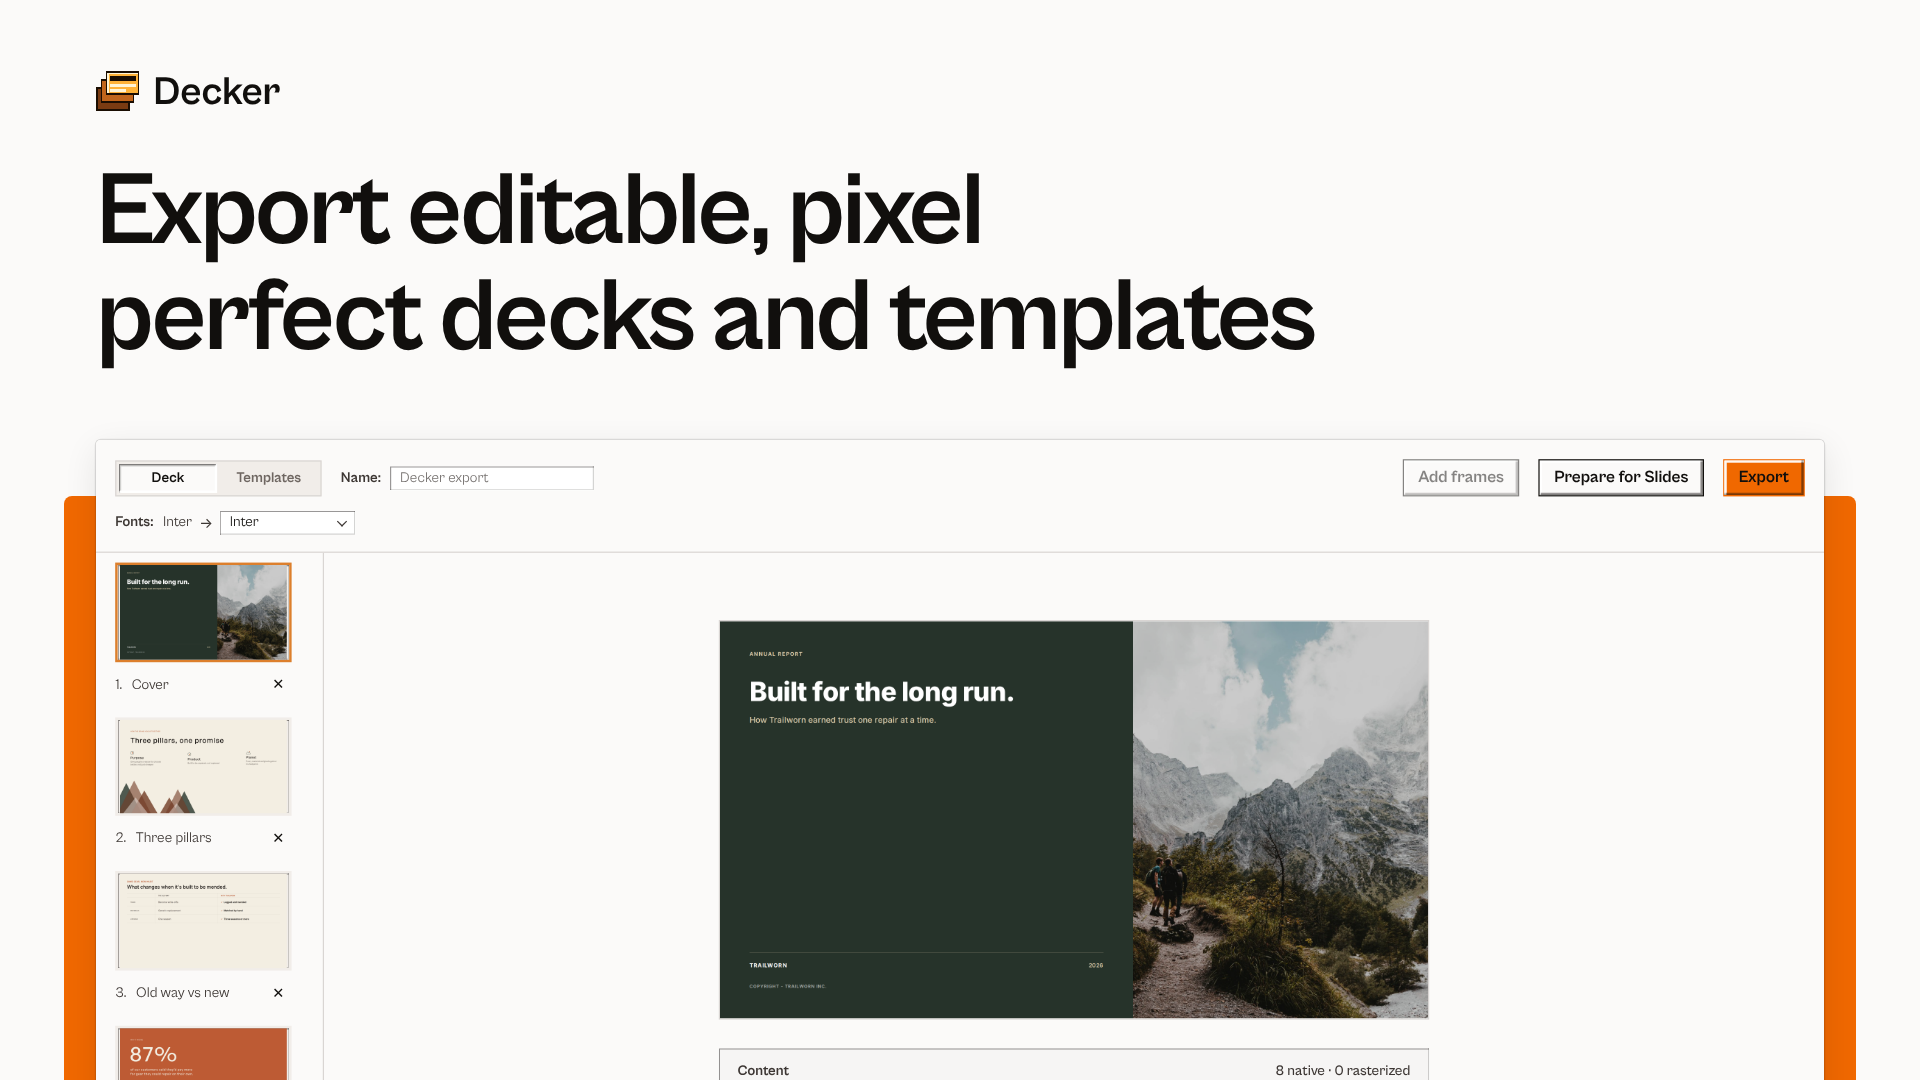
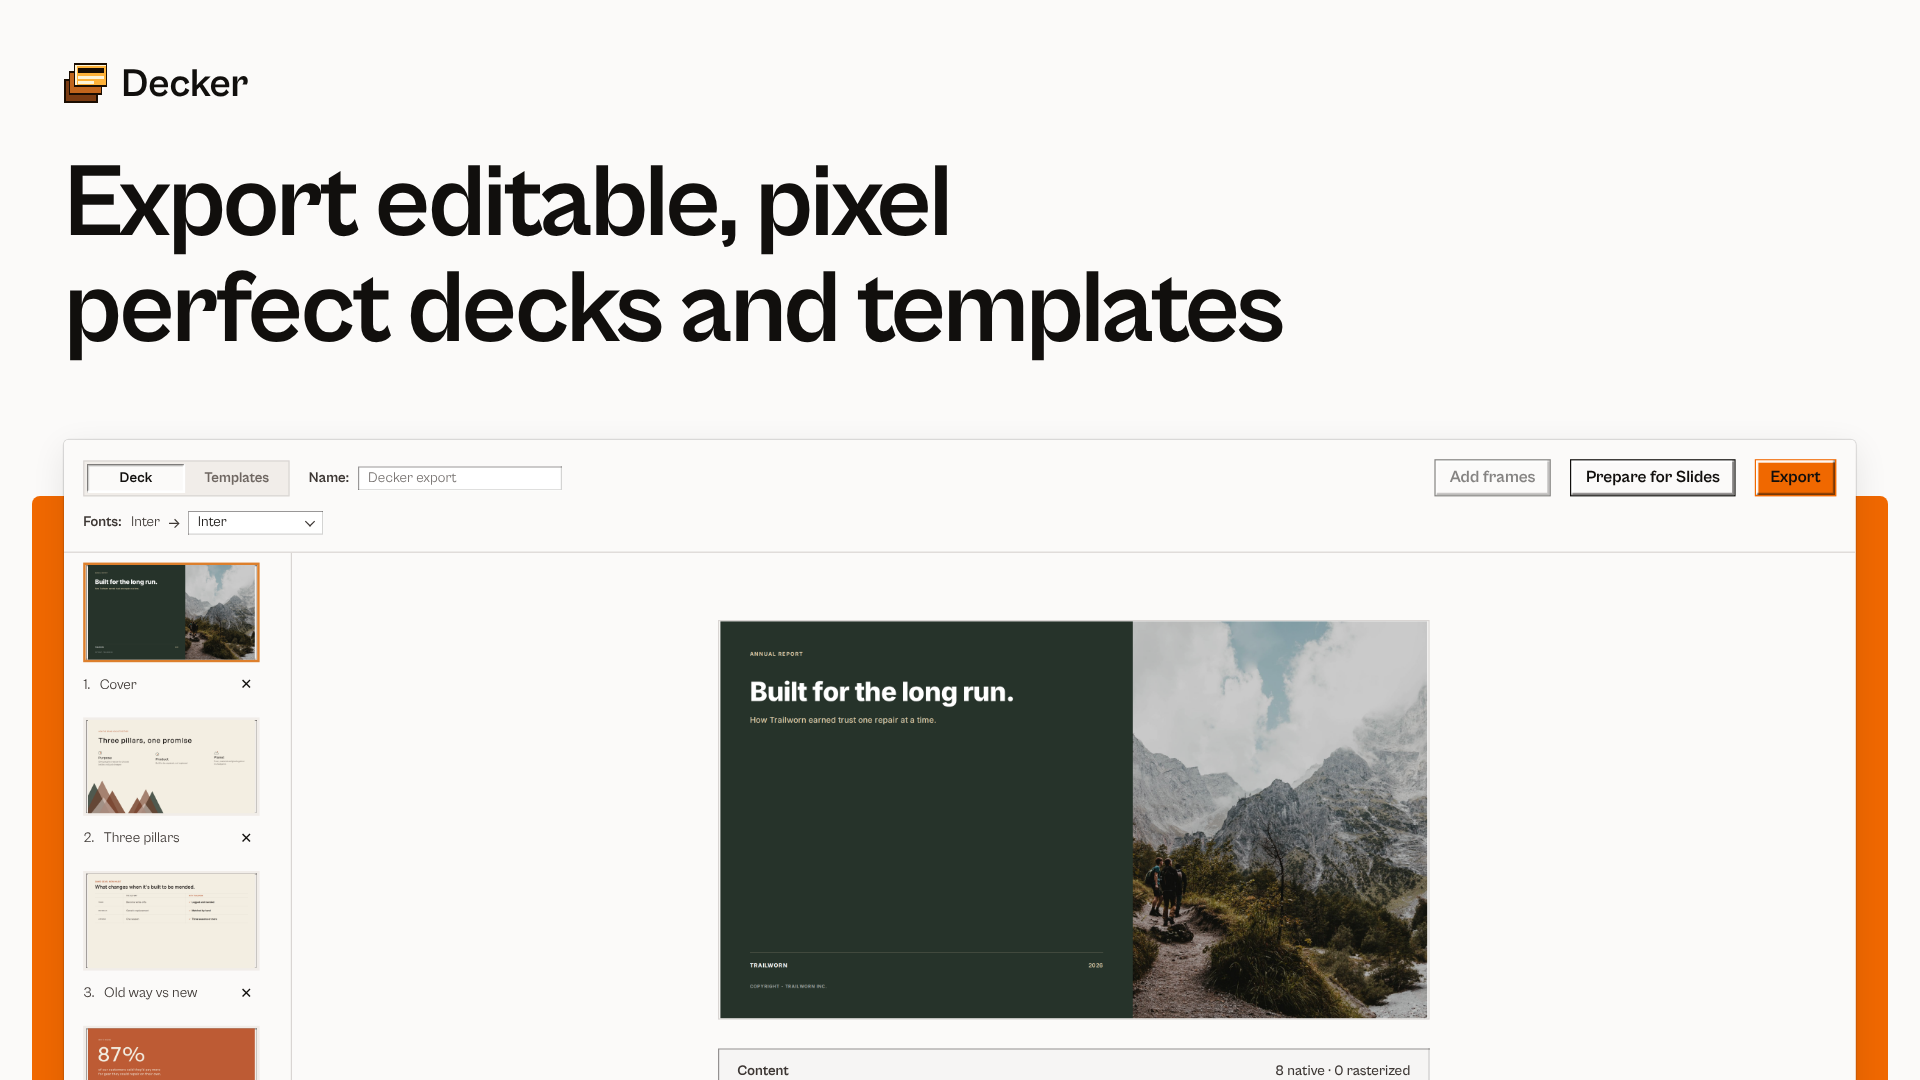
Figma Community : couverture a 64px de marge, comme le carrousel
Logo, titre et plugin a 64px du bord, la forme orange 32px autour du
plugin. L'image OG du site ne change pas.

Claude-Session: https://claude.ai/code/session_013ZNe8KJ7kDzLaZ2NtaGK9w

diff --git a/packages/backend/src/community/scenes.ts b/packages/backend/src/community/scenes.ts
@@ -488,16 +488,16 @@ body {
 .split__line i { position: absolute; left: 50%; top: 86%; width: 36px; height: 36px; margin: -18px 0 0 -18px; border-radius: 50%; background: var(--b-accent); box-shadow: 0 0 0 5px var(--b-surface); }
 
 /* ---------- Couverture ---------- */
-.cover .brand { left: 96px; top: 72px; }
+.cover .brand { left: 64px; top: 64px; }
 .cover__title {
-  position: absolute; left: 96px; top: 160px; width: 1500px;
+  position: absolute; left: 64px; top: 152px; width: 1500px;
   font-size: 104px; font-weight: var(--b-font-bold); line-height: var(--b-leading-none);
   letter-spacing: var(--b-tracking-tighter); text-wrap: balance;
 }
 /* Forme orange de l'image OG : elle sort par le bas, 32px de chaque côté
    du plugin, et son haut passe sous lui. */
 .cover__shape {
-  position: absolute; left: 64px; right: 64px; top: 496px; bottom: 0;
+  position: absolute; left: 32px; right: 32px; top: 496px; bottom: 0;
   background: var(--b-accent); border-radius: 8px 8px 0 0;
 }
 `;
@@ -514,7 +514,7 @@ export function scenes(pluginHtml: string): Scene[] {
     html: page(
       `${BRAND}<h1 class="cover__title">Export editable, pixel perfect decks and templates</h1>
       <div class="cover__shape"></div>
-      ${plugin({ x: 96, y: 440, w: 1440, h: 690, scale: 1.2, bare: true })}`,
+      ${plugin({ x: 64, y: 440, w: 1493, h: 690, scale: 1.2, bare: true })}`,
       'cover',
     ),
     async drive(ctx) {
